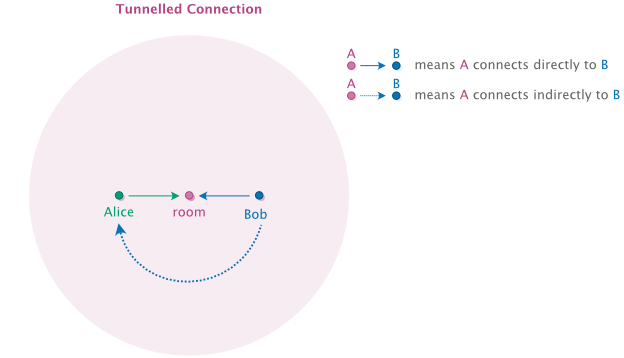
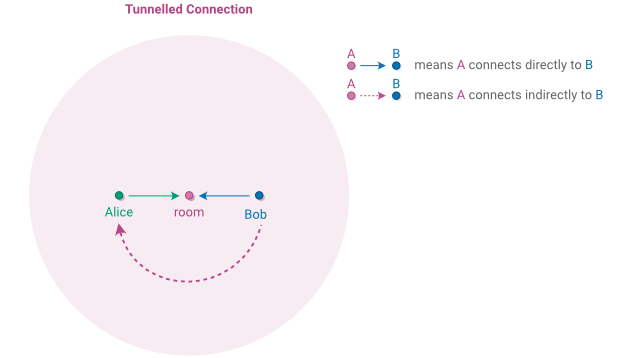
[[ rooms ]] small fixes.
* Changed the color and dashes in `room_perspective.svg` to be clearer.
* Changed the text in the tunnel section to be clear about the role of the tunnel peer (thanks Glyph).

diff --git a/index.html b/index.html
@@ -1515,7 +1515,7 @@ assert_nacl_sign_verify_detached(
         
         <h3 id="rooms-tunnel">Tunnel</h3>
 
-        <p>A tunnel is an indirect connection between two Scuttlebutt peers that is facilitated by another peer with a stable and publicly available Internet connection. This facilitator peer wraps the indirect connection between the other peers thus providing a tunnel for them to meet with one another as if they were on the same network.</p>
+        <p>A tunnel is an indirect connection between two Scuttlebutt peers which allows them to communicate as if they were on the same local network. This tunnel is made possible by the Room server which has a stable and publicly available Internet connection. The Room acts as a connection facilitator by wrapping the indirect connection between the other peers to create the tunnel.</p>
         <aside>
             <p>For a deeper understanding of tunneling, refer to <a href="https://github.com/ssbc/ssb-tunnel" target="_blank">ssb-tunnel documentation.</a>
         </aside>
